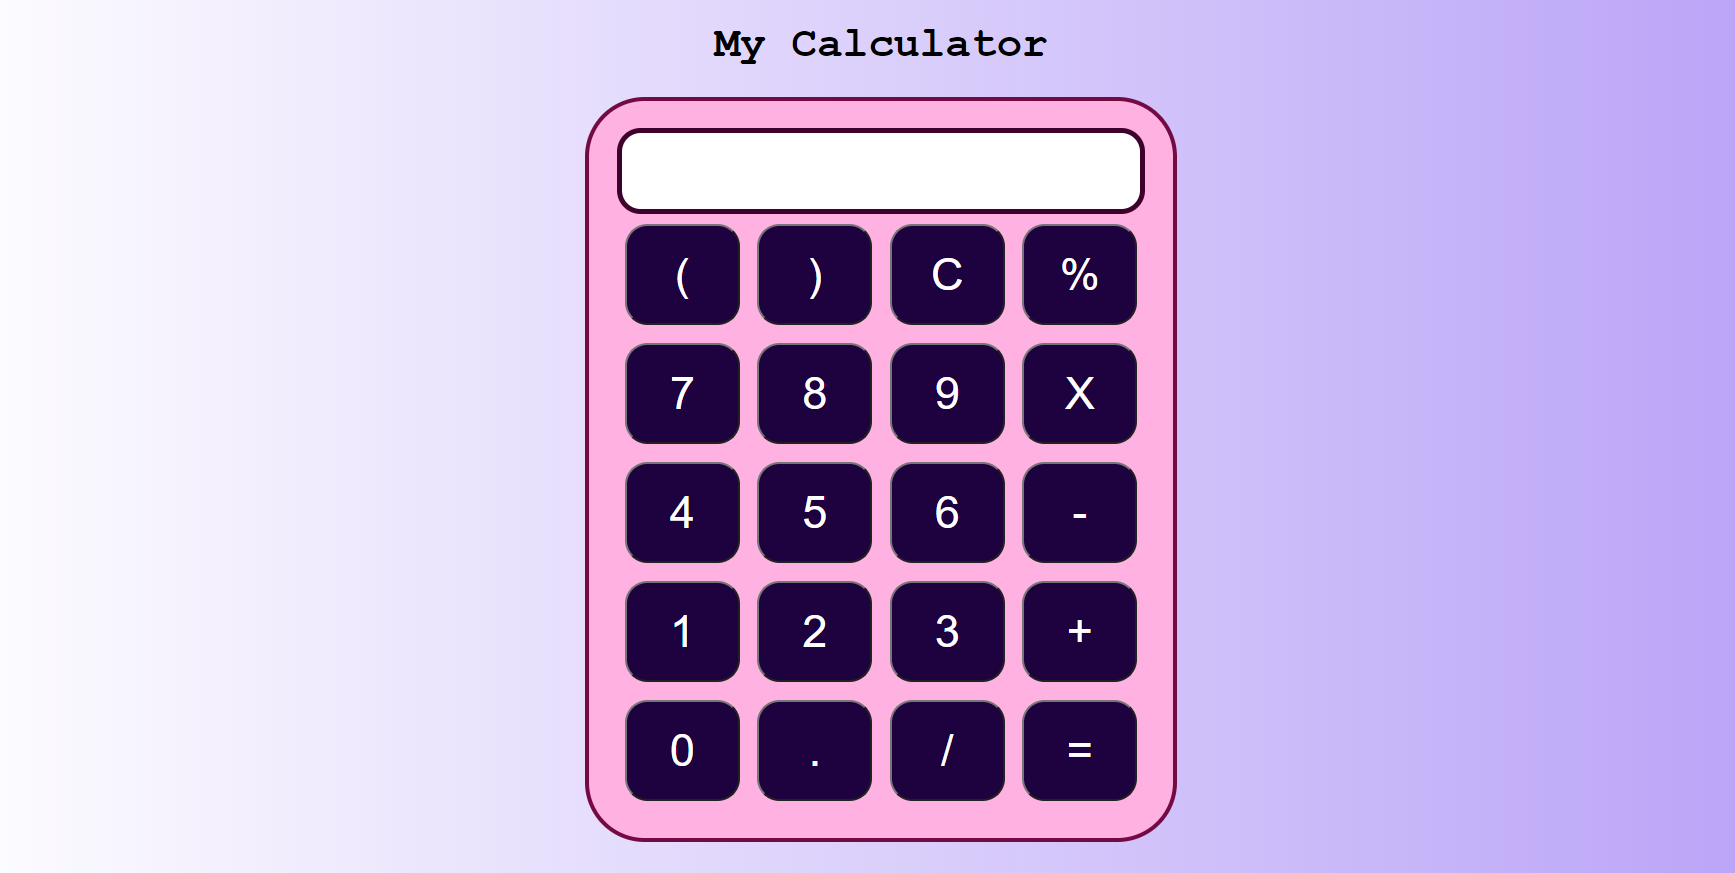
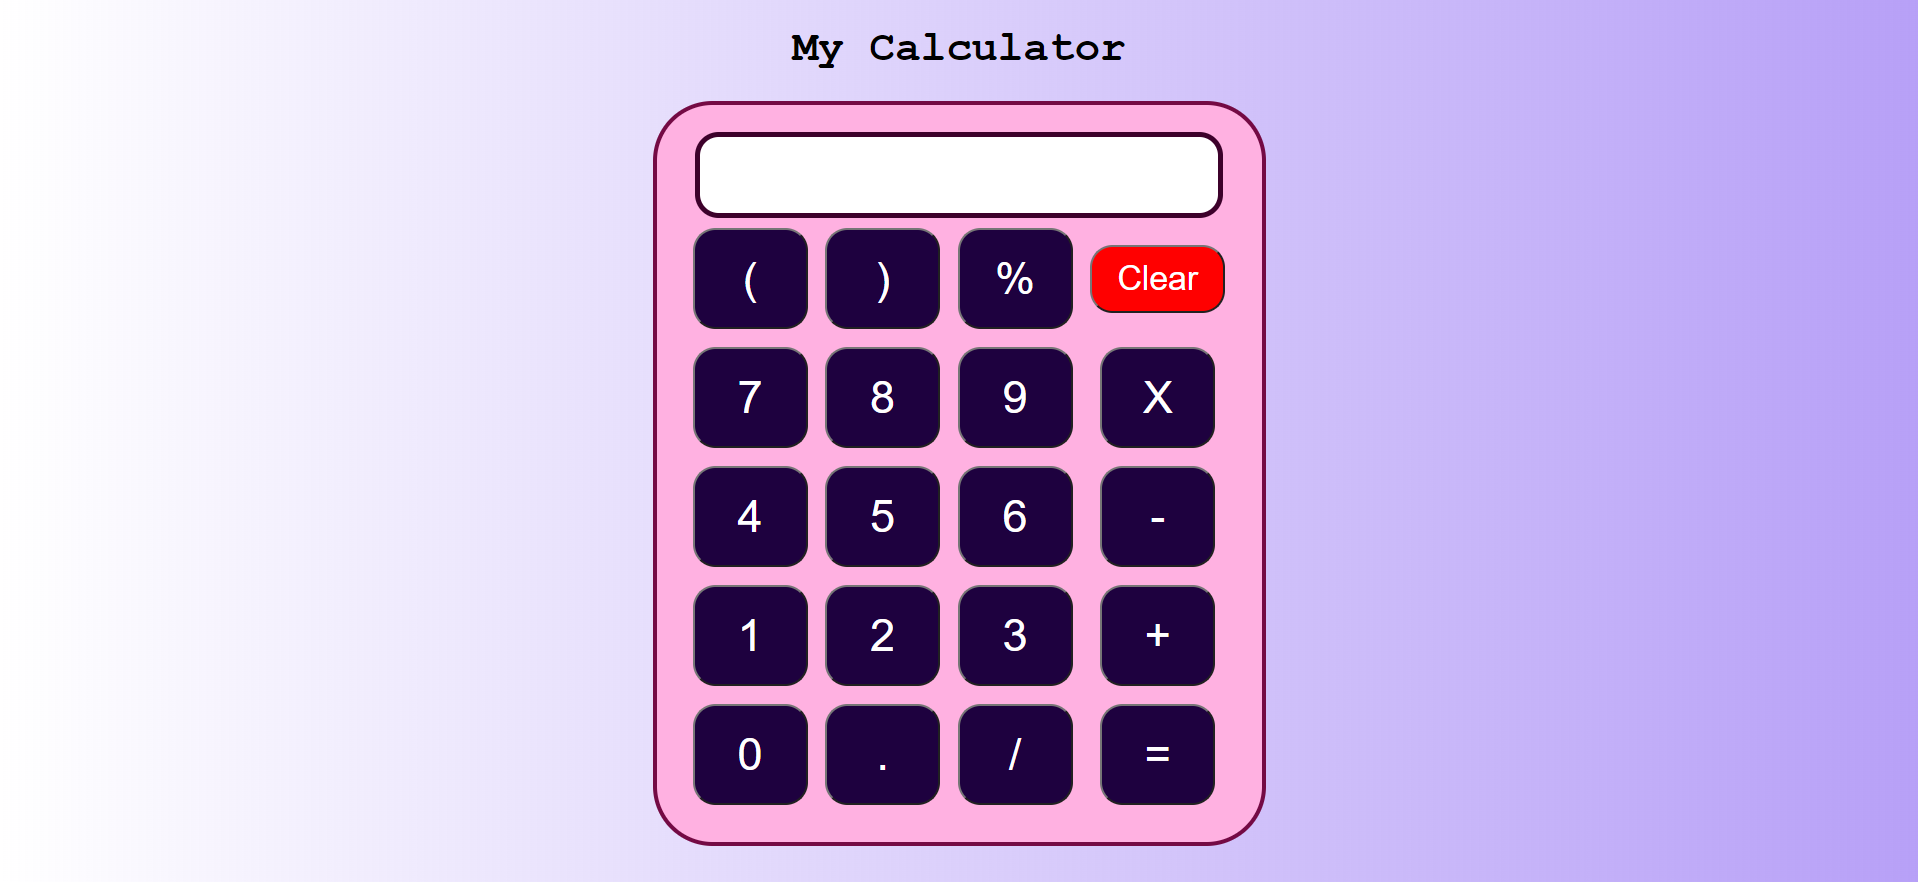
commit

Changed region(s): [[0.3112, 0.0309, 0.6847, 0.9897]]

diff --git a/index.html b/index.html
@@ -19,8 +19,9 @@
                 <tr>
                     <td><button>(</button></td>
                     <td><button>)</button></td>
-                    <td><button>C</button></td>
                     <td><button>%</button></td>
+                    <td ><button class="cls">Clear</button></td>
+                   
                 </tr>
                 <tr>
                     <td><button>7</button></td>

diff --git a/app.js b/app.js
@@ -10,7 +10,7 @@ for (item of buttons) {
             screenValue += buttonText;
             screen.value = screenValue;
         }
-        else if (buttonText == 'C') {
+        else if (buttonText == 'Clear') {
             screenValue = "";
             screen.value = screenValue;
         }

diff --git a/style.css b/style.css
@@ -28,7 +28,12 @@ button{
   height: 90px;
   margin: 6px;
 }
-
+.cls{
+  background-color: red;
+  font-size: 30px;
+  height: 2em;
+  width: 4em;
+}
 .calculator{ 
   border: 4px solid #740a44;
   background-color: #ffb1e1;
